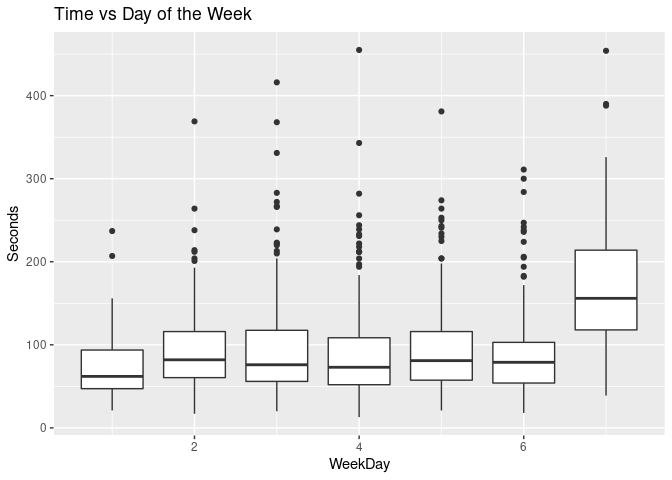
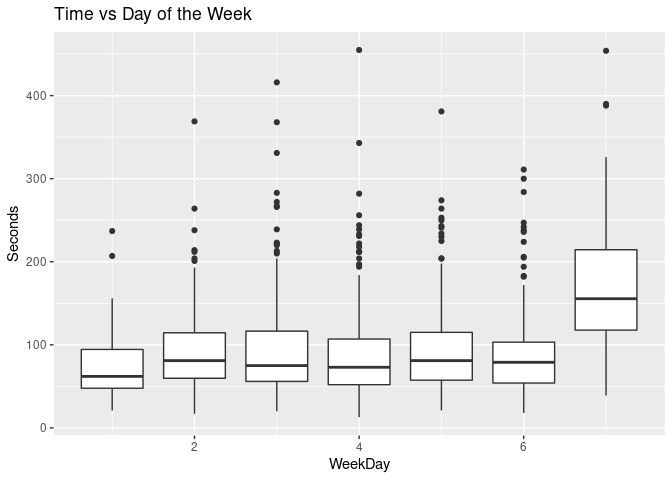
New data added, markdown reprocessed

diff --git a/analysis/nyt_mini_crossword.md b/analysis/nyt_mini_crossword.md
@@ -1,7 +1,7 @@
 ---
 title: "New York Time Mini Crossword"
 author: "Stephen Kaluzny"
-date: "30 September, 2021"
+date: "17 October, 2021"
 output:
   html_document:
     keep_md: true
@@ -82,11 +82,6 @@ d$WeekDay <- lubridate::wday(d$DateTime)
 d$TimeOfDayOrig <- d$TimeOfDay
 d$TimeOfDay <- hms::parse_hm(d$TimeOfDay)
 d$Seconds <- with(d, as.numeric(lubridate::seconds(lubridate::ms(Time))))
-```
-
-```
-## Warning in .parse_hms(..., order = "MS", quiet = quiet): Some strings failed to
-## parse, or all strings are NAs
 ```
 
 Compute the time interval, in days, between puzzle playing by `Player`.
@@ -172,7 +167,7 @@ d %>%
 
 ## Summary Statistics
 
-Current data set has 1161 observations.
+Current data set has 1187 observations.
 
 
 ```r
@@ -187,10 +182,10 @@ d %>% group_by(Player) %>%
 ##   <chr>  <dbl>  <dbl> <dbl> <dbl> <int>
 ## 1 SKK     51       47    21    89     4
 ## 2 AKK     55       55    55    55     1
-## 3 JIK     79.6     62    13   264   219
-## 4 JAK    103.      86    27   454   411
-## 5 BBK    117.     102    42   350    56
-## 6 SPK     NA       NA    NA    NA   470
+## 3 JIK     78.9     61    13   264   225
+## 4 SPK    102.      85    18   455   477
+## 5 JAK    103.      86    27   454   424
+## 6 BBK    117.     102    42   350    56
 ```
 
 ## Subset the Data
@@ -205,7 +200,7 @@ d <- d %>%
   filter(Player %in% c("SPK", "JAK", "JIK"))
 ```
 
-Now have 1100 observations.
+Now have 1126 observations.
 
 ## Plots
 
@@ -217,10 +212,6 @@ d %>%
   ggplot(aes(x=WeekDay, y=Seconds)) +
     geom_jitter(position = position_jitter(width=.3)) +
     ggtitle("Time vs Day of the Week")
-```
-
-```
-## Warning: Removed 1 rows containing missing values (geom_point).
 ```
 
 ![](nyt_mini_crossword_files/figure-html/plot01-1.png)<!-- -->
@@ -235,18 +226,9 @@ d %>%
     ggtitle("Time vs Day of the Week")
 ```
 
-```
-## Warning: Removed 1 rows containing missing values (geom_point).
-```
-
 ![](nyt_mini_crossword_files/figure-html/plot02-1.png)<!-- -->
 
 The distribution of the times, summarised in a boxplot:
-
-
-```
-## Warning: Removed 1 rows containing non-finite values (stat_boxplot).
-```
 
 ![](nyt_mini_crossword_files/figure-html/plot03-1.png)<!-- -->
 
@@ -280,6 +262,11 @@ d %>%
 ![](nyt_mini_crossword_files/figure-html/plot05-1.png)<!-- -->
 
 ## Player vs Player
+The function `spkjak` returns "SPKJAK" if a date contains an entry
+for both "SPK" and "JAK".
+It could also contain an entry for "JIK".
+The `d2` object selects the observations with "SPKJAK" set and
+then only keeps those where `Player` is "SPK" or "JAK".
 
 ```r
 # spkjak -----
@@ -294,7 +281,7 @@ spkjak <- function(x) {
 d2 <- group_by(d, Date) %>%
   mutate(SPKJAK = spkjak(Player)) %>%
   ungroup() %>%
-  filter(SPKJAK == "SPKJAK")
+  filter(SPKJAK == "SPKJAK", Player %in% c("SPK", "JAK"))
 ```
 
 ```r
@@ -302,11 +289,7 @@ d2 %>% filter(Player %in% c("SPK", "JAK")) %>%
   ggplot(aes(x=Date, y=Seconds, color=Player)) + geom_point()
 ```
 
-```
-## Warning: Removed 1 rows containing missing values (geom_point).
-```
-
-![](nyt_mini_crossword_files/figure-html/spk_vs_jak-1.png)<!-- -->
+![](nyt_mini_crossword_files/figure-html/spk_and_jak-1.png)<!-- -->
 
 ```r
 d3 <- d2 %>% select(Date, Player, Seconds) %>%
@@ -348,17 +331,16 @@ sessionInfo()
 ## [1] ggplot2_3.3.5 dplyr_1.0.7   tidyr_1.1.4   assertr_2.8  
 ## 
 ## loaded via a namespace (and not attached):
-##  [1] Rcpp_1.0.7       highr_0.9        pillar_1.6.3     bslib_0.3.0     
-##  [5] compiler_4.1.1   jquerylib_0.1.4  tools_4.1.1      digest_0.6.28   
-##  [9] lubridate_1.7.10 jsonlite_1.7.2   evaluate_0.14    lifecycle_1.0.1 
-## [13] tibble_3.1.5     gtable_0.3.0     pkgconfig_2.0.3  rlang_0.4.11    
-## [17] cli_3.0.1        DBI_1.1.1        yaml_2.2.1       xfun_0.26       
-## [21] fastmap_1.1.0    withr_2.4.2      stringr_1.4.0    knitr_1.36      
-## [25] hms_1.1.1        generics_0.1.0   vctrs_0.3.8      sass_0.4.0      
-## [29] rprojroot_2.0.2  grid_4.1.1       tidyselect_1.1.1 here_1.0.1      
-## [33] glue_1.4.2       R6_2.5.1         fansi_0.5.0      rmarkdown_2.11  
-## [37] farver_2.1.0     purrr_0.3.4      magrittr_2.0.1   scales_1.1.1    
-## [41] ellipsis_0.3.2   htmltools_0.5.2  assertthat_0.2.1 colorspace_2.0-2
-## [45] labeling_0.4.2   utf8_1.2.2       stringi_1.7.4    munsell_0.5.0   
-## [49] crayon_1.4.1
+##  [1] highr_0.9        pillar_1.6.3     bslib_0.3.1      compiler_4.1.1  
+##  [5] jquerylib_0.1.4  tools_4.1.1      digest_0.6.28    lubridate_1.8.0 
+##  [9] jsonlite_1.7.2   evaluate_0.14    lifecycle_1.0.1  tibble_3.1.5    
+## [13] gtable_0.3.0     pkgconfig_2.0.3  rlang_0.4.11     cli_3.0.1       
+## [17] DBI_1.1.1        yaml_2.2.1       xfun_0.26        fastmap_1.1.0   
+## [21] withr_2.4.2      stringr_1.4.0    knitr_1.36       hms_1.1.1       
+## [25] generics_0.1.0   vctrs_0.3.8      sass_0.4.0       rprojroot_2.0.2 
+## [29] grid_4.1.1       tidyselect_1.1.1 here_1.0.1       glue_1.4.2      
+## [33] R6_2.5.1         fansi_0.5.0      rmarkdown_2.11   farver_2.1.0    
+## [37] purrr_0.3.4      magrittr_2.0.1   scales_1.1.1     ellipsis_0.3.2  
+## [41] htmltools_0.5.2  assertthat_0.2.1 colorspace_2.0-2 labeling_0.4.2  
+## [45] utf8_1.2.2       stringi_1.7.5    munsell_0.5.0    crayon_1.4.1
 ```
